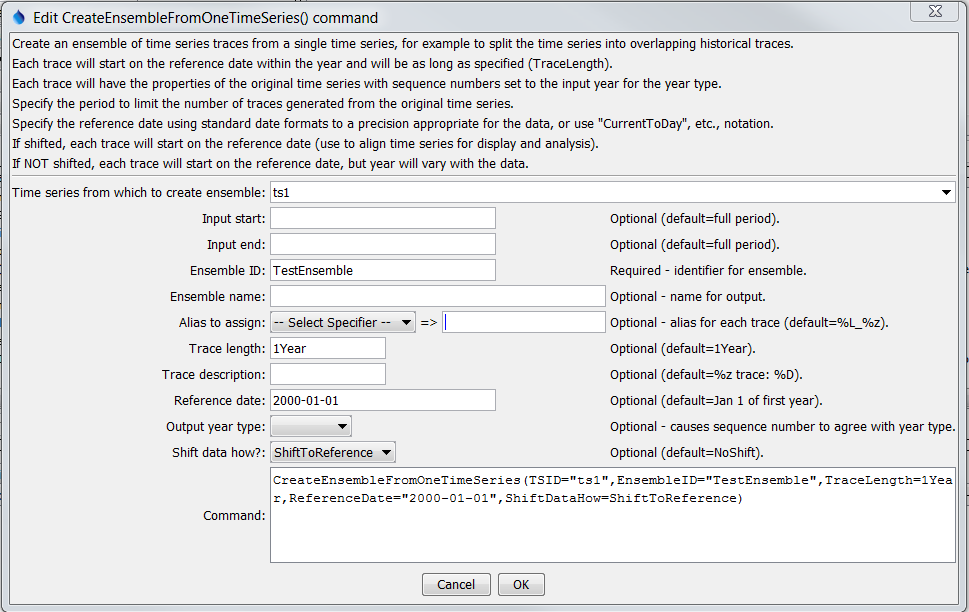
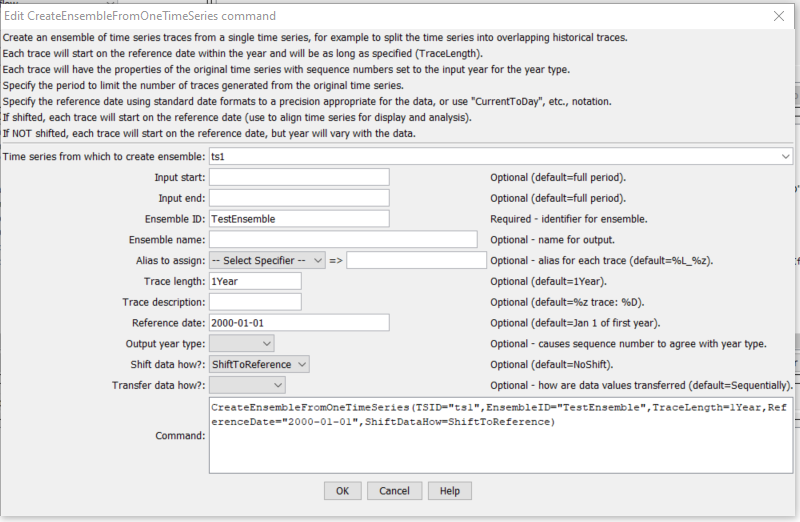
Update CreateEnsembleFromOneTimeSeries image.

Changed region(s): [[0.0, 0.0, 1.0, 1.0]]

diff --git a/mkdocs-project/docs/appendix-release-notes/release-notes-13.md b/mkdocs-project/docs/appendix-release-notes/release-notes-13.md
@@ -30,6 +30,9 @@ check the full length of each file when computing the number of different lines.
 command to better support comparing irregular time series,
 add `CompareFlags` to control whether data flags are also compared.
 * ![change](change.png) [13.03.00] Update the
+[`CreateEnsembleFromOneTimeSeries`](../command-ref/CreateEnsembleFromOneTimeSeries/CreateEnsembleFromOneTimeSeries.md)
+command to have `TransferDataHow` to control how input time series are transferred to output time series traces.
+* ![change](change.png) [13.03.00] Update the
 [`CreateRegressionTestCommandFile`](../command-ref/CreateRegressionTestCommandFile/CreateRegressionTestCommandFile.md)
 command to support multiple patterns to match files.
 * ![change](change.png) [13.03.00] Update the [`DeleteTableRows`](../command-ref/DeleteTableRows/DeleteTableRows.md) command to allow `*` to delete all rows,
